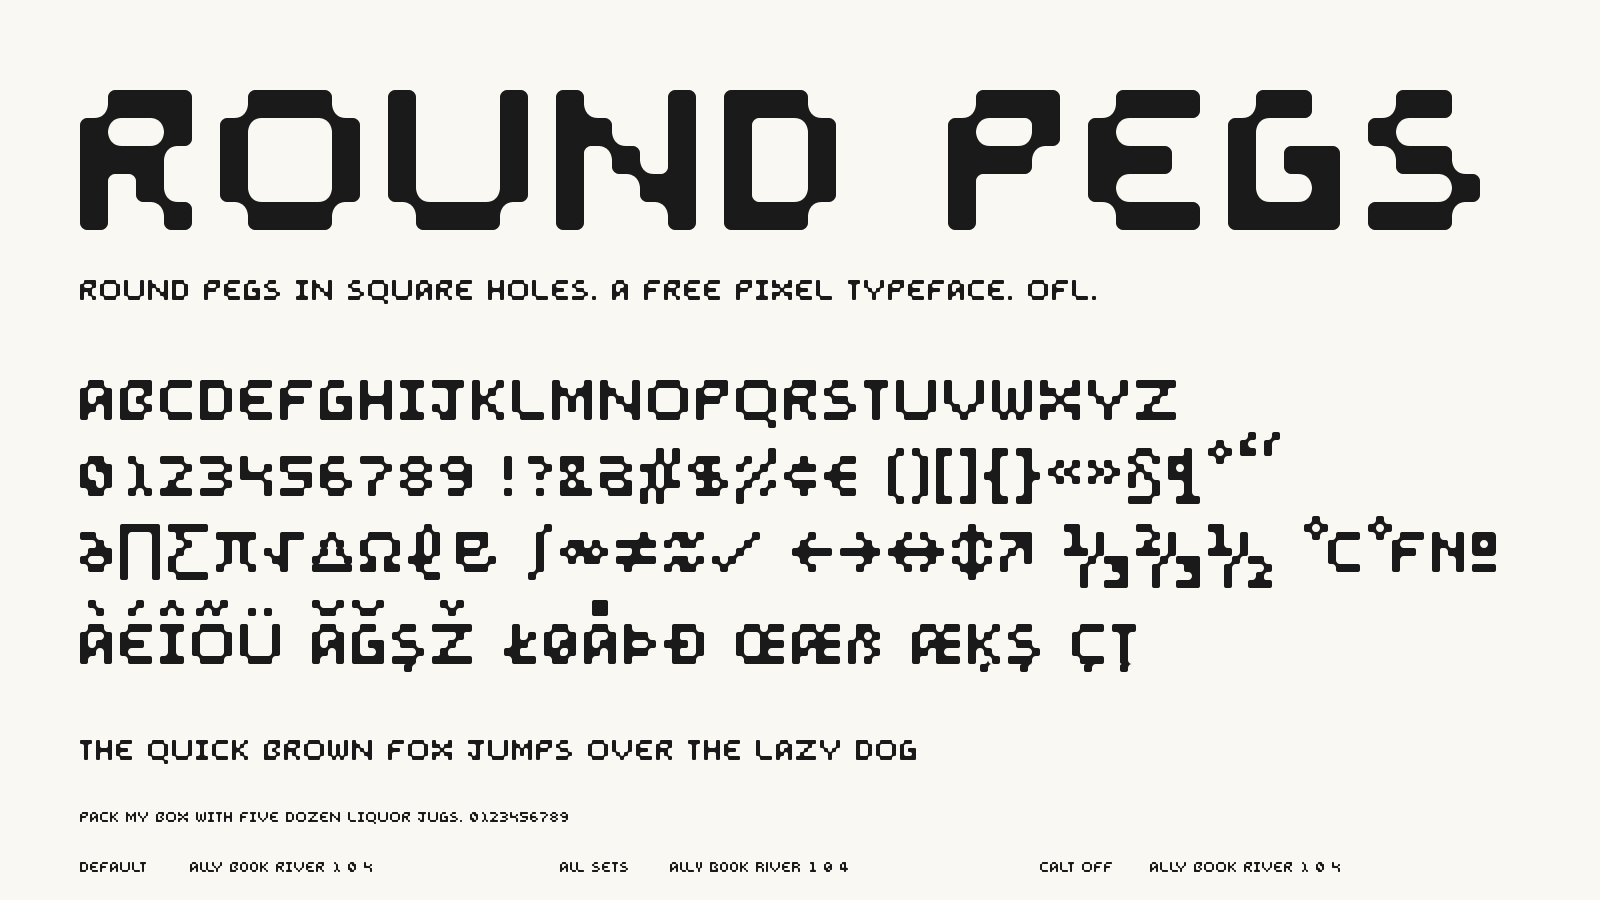
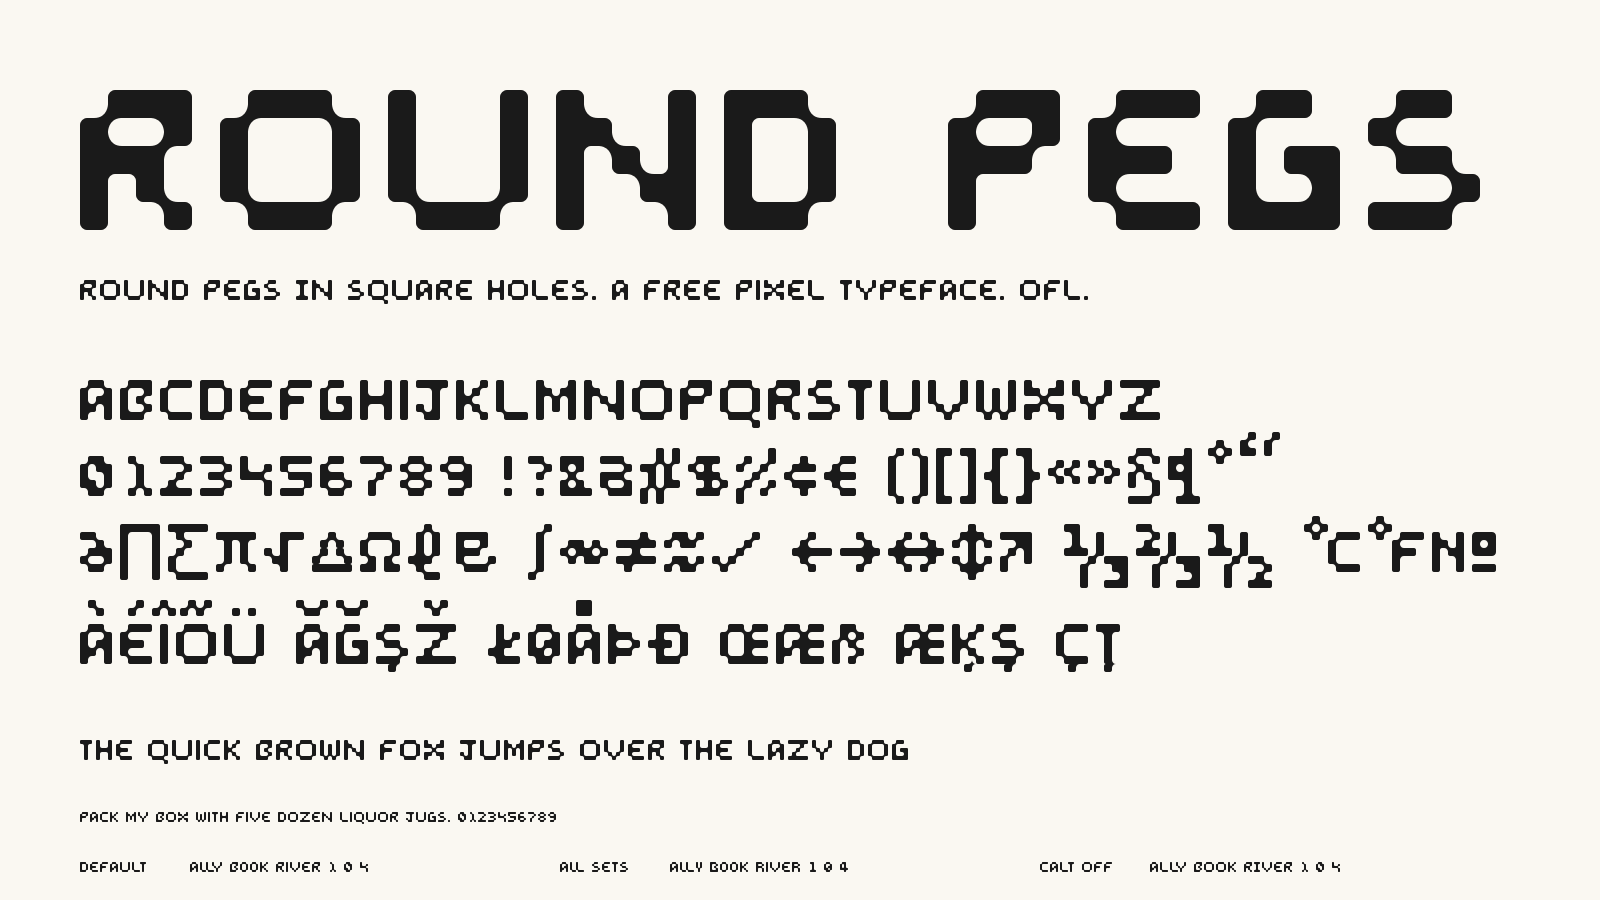
1.026: slim I inside words, barred I at word edges (calt)
Claude-Session: https://claude.ai/code/session_01NEn1NY7kHH7qacmzWURnUc

diff --git a/sources/tools/release.py b/sources/tools/release.py
@@ -16,7 +16,7 @@ import unicodedata
 sys.path.insert(0, '/home/claude/work')
 import build as B
 
-SRC = '/home/claude/work/out/RoundPegsBase-Regular.otf'
+SRC = '/home/claude/work/out/ShadePixel-Regular.otf'
 FAMILY = sys.argv[1]
 VERSION = float(sys.argv[2]) if len(sys.argv) > 2 else 1.0
 REPO = sys.argv[3] if len(sys.argv) > 3 else 'https://github.com/3sidedcoin/' + FAMILY.lower().replace(' ', '-')
@@ -323,6 +323,20 @@ def scale_font(path, to_upm=1024, from_cell=140):
     f.save(path)
     return k
 
+
+def _calt_text(font):
+    """calt: L before L -> L.short; O runs -> narrow O; I with a letter on both sides -> slim I (ss05 form)."""
+    import unicodedata
+    cm = font.getBestCmap()
+    alpha = {g for cp, g in cm.items() if chr(cp).isalpha()}
+    letters = sorted(g for g in font.getGlyphOrder() if g.split('.')[0] in alpha)
+    ipairs = [(g, g + '.ss05') for g in ('I', 'Igrave', 'Iacute', 'Icircumflex', 'Idieresis', 'Itilde', 'Imacron', 'Ibreve', 'Iogonek', 'Idotaccent')
+              if g in font.getGlyphOrder() and g + '.ss05' in font.getGlyphOrder()]
+    out = '@LETTER = [' + ' '.join(letters) + '];\n'
+    out += "feature calt {\n  sub L' L by L.short;\n  sub O' O by O.ss11;\n  sub O.ss11 O' by O.ss11;\n"
+    out += ''.join(f"  sub @LETTER {a}' @LETTER by {b};\n" for a, b in ipairs)
+    return out + '} calt;'
+
 def add_mark_gpos(path):
     from fontTools.feaLib.builder import addOpenTypeFeaturesFromString
     f = TTFont(path); k = 128 / 140
@@ -358,7 +372,7 @@ def add_mark_gpos(path):
     lines.append('feature tnum {\n  sub one.pnum by one;\n  sub one.ss02.pnum by one.ss02;\n} tnum;')
     # contextual spacing (default-on): L before L takes the 3-cell L.short (zero gap, so LL/LLL/LLY close up); every O in a run of
     # two or more Os takes the narrow O (O.ss11). Plain L and O only - accented forms keep their normal shapes and spacing.
-    lines.append('feature calt {\n  sub L\' L by L.short;\n  sub O\' O by O.ss11;\n  sub O.ss11 O\' by O.ss11;\n} calt;')
+    lines.append(_calt_text(f))
     _kp = os.path.join(os.path.dirname(os.path.abspath(__file__)), 'kern.fea')
     if os.path.exists(_kp):
         lines.append(open(_kp).read())

diff --git a/sources/tools/export_ufo.py b/sources/tools/export_ufo.py
@@ -8,6 +8,20 @@ f = TTFont(SRC); gs = f.getGlyphSet(); cmap = f.getBestCmap()
 rev = {}
 for cp, g in cmap.items(): rev.setdefault(g, []).append(cp)
 
+
+def _calt_text(font):
+    """calt: L before L -> L.short; O runs -> narrow O; I with a letter on both sides -> slim I (ss05 form)."""
+    import unicodedata
+    cm = font.getBestCmap()
+    alpha = {g for cp, g in cm.items() if chr(cp).isalpha()}
+    letters = sorted(g for g in font.getGlyphOrder() if g.split('.')[0] in alpha)
+    ipairs = [(g, g + '.ss05') for g in ('I', 'Igrave', 'Iacute', 'Icircumflex', 'Idieresis', 'Itilde', 'Imacron', 'Ibreve', 'Iogonek', 'Idotaccent')
+              if g in font.getGlyphOrder() and g + '.ss05' in font.getGlyphOrder()]
+    out = '@LETTER = [' + ' '.join(letters) + '];\n'
+    out += "feature calt {\n  sub L' L by L.short;\n  sub O' O by O.ss11;\n  sub O.ss11 O' by O.ss11;\n"
+    out += ''.join(f"  sub @LETTER {a}' @LETTER by {b};\n" for a, b in ipairs)
+    return out + '} calt;'
+
 u = ufoLib2.Font()
 i = u.info
 i.familyName = f['name'].getDebugName(1); i.styleName = 'Regular'
@@ -93,7 +107,7 @@ if 'GSUB' in f:
             fea.append('')
 # contextual spacing (default-on): L before L -> L.short; O runs -> narrow O
 fea.append("feature pnum {\n  sub one by one.pnum;\n  sub one.ss02 by one.ss02.pnum;\n} pnum;\nfeature tnum {\n  sub one.pnum by one;\n  sub one.ss02.pnum by one.ss02;\n} tnum;\n")
-fea.append("feature calt {\n  sub L' L by L.short;\n  sub O' O by O.ss11;\n  sub O.ss11 O' by O.ss11;\n} calt;\n")
+fea.append(_calt_text(f) + "\n")
 import os
 kp = os.path.join(os.path.dirname(os.path.abspath(__file__)), 'kern.fea')
 if os.path.exists(kp):

diff --git a/documentation/ISSUE_DRAFT.md b/documentation/ISSUE_DRAFT.md
@@ -26,9 +26,9 @@ By opening this issue, I confirm the project meets the following requirements:
 
 **Notes:**
 
-- Version 1.025: 378 glyphs, 482 characters. Covers the Google Fonts Latin Core and Latin Kernel glyphsets in full (319 and 116 of 319 and 116), the whole of Windows-1252 (the soft hyphen is left out on purpose, following FontBakery's recommendation), and 76 of the 110 glyphs in the optional Latin Plus set (fractions, super- and subscript digits, currency and typographic marks). Covers about 350 Latin-script languages (shaperglot), including Finnish, Norwegian, Northern Sami and Lithuanian with tone-mark stacking. Vietnamese and non-Latin scripts are not drawn.
+- Version 1.026: 378 glyphs, 482 characters. Covers the Google Fonts Latin Core and Latin Kernel glyphsets in full (319 and 116 of 319 and 116), the whole of Windows-1252 (the soft hyphen is left out on purpose, following FontBakery's recommendation), and 76 of the 110 glyphs in the optional Latin Plus set (fractions, super- and subscript digits, currency and typographic marks). Covers about 350 Latin-script languages (shaperglot), including Finnish, Norwegian, Northern Sami and Lithuanian with tone-mark stacking. Vietnamese and non-Latin scripts are not drawn.
 - Capitals-only by design: lowercase maps to the capitals. Spacing is the whole-cell grid itself (1-cell gaps), with three kerning pairs (LV and LT sit flush, LY tucks one cell under the Y) and two default-on contextual rules (`calt`) for LL and OO runs. Rules are in documentation/DESIGN.md.
-- FontBakery `check-googlefonts` on v1.025 (fonts/ttf/RoundPegs-Regular.ttf): 0 FATAL, 0 FAIL, 6 WARN, 112 PASS. The warnings are alt_caron (Dcaron, Lcaron and Tcaron are composed from base letter and mark), contour count (pixel outlines), article (added after onboarding), unreachable combining-mark subsets, the unregistered vendor ID 3SDC, and outline alignment on ↕ (fillet points 1.5 units under the baseline, from the drawn star joins).
+- FontBakery `check-googlefonts` on v1.026 (fonts/ttf/RoundPegs-Regular.ttf): 0 FATAL, 0 FAIL, 6 WARN, 112 PASS. The warnings are alt_caron (Dcaron, Lcaron and Tcaron are composed from base letter and mark), contour count (pixel outlines), article (added after onboarding), unreachable combining-mark subsets, the unregistered vendor ID 3SDC, and outline alignment on ↕ (fillet points 1.5 units under the baseline, from the drawn star joins).
 - Editable source: sources/RoundPegs-Regular.ufo, with sources/config.yaml and sources/build.sh (fontmake). The original per-glyph SVG drawings are in sources/svg. The generators (build, release, kerning) are in sources/tools.
 - Renamed from "Edge Case" to "Round Pegs" before onboarding; repo renamed to round-pegs-typeface.
 - AI disclosure: all glyph shapes were drawn by me. An AI assistant (Claude, by Anthropic) helped write the build and release scripts, composed derived glyphs (accented capitals, subscripts from the superscript drawings, a few ligatures) from my drawn marks and letters, and checked the font against the Google Fonts glyph sets.
@@ -42,7 +42,7 @@ By opening this issue, I confirm the project meets the following requirements:
 
 ## Comment to post on the open issue (update since the last comment)
 
-Updated the repo to v1.025. Changes since v1.012:
+Updated the repo to v1.026. Changes since v1.012:
 
 - Added arrows ↖ ↗ ↘ ↙ ↔ ↕, ⅓ ⅔, the fraction slash ⁄, ‖, № and primes ′ ″.
 - Windows-1252 is now fully covered (added µ ¬ † ‡ ƒ ‰ ¦ ¤ ± ¹ ² ³ ¼ ½ ¾). Also added ⁰ ⁴-⁹ and ₀-₉.
@@ -55,4 +55,4 @@ Updated the repo to v1.025. Changes since v1.012:
 - Redrew % and the fractions' numerators; spacing is documented, with kerning for LV, LY and LT and the calt rules for LL and OO runs.
 - FontBakery `check-googlefonts`: 0 FATAL, 0 FAIL, 6 WARN, 112 PASS (new warning: outline alignment on ↕, a few fillet points 1.5 units under the baseline).
 
-Repo: https://github.com/3sidedcoin/round-pegs-typeface (tag v1.025). Happy to adjust anything before onboarding.
+Repo: https://github.com/3sidedcoin/round-pegs-typeface (tag v1.026). Happy to adjust anything before onboarding.

diff --git a/README.md b/README.md
@@ -11,7 +11,7 @@ Designed by Tejas at [3 Sided Coin](https://3sided.co.in). Originally made for t
 
 ## Coverage
 
-**Version 1.025: 378 glyphs, 482 characters.** Latin Core and Latin Kernel in full, and 76 of the 110 glyphs in Google Fonts' optional Latin Plus set. The history of what was added is in [CHANGELOG.md](CHANGELOG.md).
+**Version 1.026: 378 glyphs, 482 characters.** Latin Core and Latin Kernel in full, and 76 of the 110 glyphs in Google Fonts' optional Latin Plus set. The history of what was added is in [CHANGELOG.md](CHANGELOG.md).
 
 - **Latin:** the Google Fonts Latin Core and Latin Kernel sets in full, and all of Windows-1252. Accented capitals are composed from consistent marks, with combining marks positioned through OpenType `mark`. Covers about 350 Latin-script languages (shaperglot), including Finnish, Norwegian, Northern Sami and Lithuanian (with tone-mark stacking).
 - **Letters:** ẞ Æ Œ Ø Ł Ħ Þ Ð Ŋ Ŧ Ǥ Ʒ Ǯ and the rest of the European Latin range.
@@ -20,7 +20,7 @@ Designed by Tejas at [3 Sided Coin](https://3sided.co.in). Originally made for t
 - **Arrows and shapes:** ← ↑ → ↓ ↔ ↕ ↖ ↗ ↘ ↙, ■ □ ▲ ▼ ▶ ◀ ◆ ◇ ◊ ▪ Ⓓ and ✓.
 - **Punctuation and currency:** typographic quotes and guillemets, dashes, bullets, daggers, and $ ¢ £ ¤ ¥ € ₹.
 - **Stylistic alternates**, each in its own set so you can mix them: `ss01` alternate R, `ss02` alternate 1, `ss03` alternate B, `ss04` alternate P (all three with a square top-left and a notched right side), `ss05` slim I (one cell wide), `ss06` narrow Y, `ss07` narrow X, `ss08` narrow N, `ss09` slashed zero, `ss10` closed four and `ss11` narrow O. The accented forms of R, I, Y, N and O have alternates too. In CSS: `font-feature-settings: "ss01", "ss05";`.
-- **Contextual spacing** (on by default through `calt`): in LL, LLL and LLY every L except the last becomes a 3-cell short L that runs straight into the next L; every O in a run of two or more Os (OO, BOOK, MOON) takes the narrow O; and L before Y moves in a further cell so its foot slides under the Y. Turn it off with `font-feature-settings: "calt" 0;`.
+- **Contextual spacing** (on by default through `calt`): an I with a letter on both sides takes the slim 1-cell I (PIXEL, BIG, MILLION) while a standalone I and the I at the start or end of a word (I, INK, IN, IT'S) keep their bars; in LL, LLL and LLY every L except the last becomes a 3-cell short L that runs straight into the next L; every O in a run of two or more Os (OO, BOOK, MOON) takes the narrow O; and L before Y moves in a further cell so its foot slides under the Y. Turn it off with `font-feature-settings: "calt" 0;`.
 - **Proportional figures** (`pnum`): figures are tabular by default, so columns of numbers line up. `pnum` gives the 1 a 4-cell advance instead of 5, so runs like 11 and 2019 close up; it combines with the `ss02` alternate 1. `tnum` turns it back off.
 - Stacked accents (Lithuanian Ė́, Ū́ and similar) rise to 1.25 em above the baseline, above the 1.0 em ascender; very tight line-heights may clip them. A few tall glyphs (∑ ∏ ∫ ℓ ↕ and the fractions) run 1 cell below the baseline to 6 above, so use a line-height of at least 1.4.
 - Not yet drawn: Vietnamese and non-Latin scripts.

diff --git a/documentation/CHECKLIST.md b/documentation/CHECKLIST.md
@@ -3,7 +3,7 @@
 - [ ] Repo is public: https://github.com/3sidedcoin/round-pegs-typeface
 - [ ] OFL.txt in root (done), copyright line matches font name record
 - [ ] Run `fontbakery check-googlefonts fonts/ttf/RoundPegs-Regular.ttf` with network and fix new issues
-- [ ] Tag a release that matches the font version (the font is 1.025) with the font files attached
+- [ ] Tag a release that matches the font version (the font is 1.026) with the font files attached
 - [ ] Fork google/fonts, install `gftools`, run `gftools packager "Round Pegs" path/to/google/fonts` to make METADATA.pb (draft in METADATA.pb.draft)
 - [ ] Open issue "Add Round Pegs" in google/fonts using documentation/ISSUE_DRAFT.md
 - [ ] Answer review comments in the issue

diff --git a/CHANGELOG.md b/CHANGELOG.md
@@ -1,5 +1,9 @@
 # Changelog
 
+## 1.026
+- Added a contextual rule for I (part of `calt`): an I with a letter on both sides takes the slim 1-cell I, so PIXEL, BIG and MILLION tighten up, while a standalone I and the first or last letter of a word (I, INK, IN, IT'S) keep their bars. Accented capital Is follow the same rule. `ss05` still forces the slim I everywhere and `calt` off returns every I to the barred form
+- Version bumped so installed copies are replaced
+
 ## 1.025
 - Redrew the numero sign № with a narrower N (4 cells wide instead of 5), so the glyph is 8 cells of ink instead of 9
 - Version bumped so installed copies are replaced
